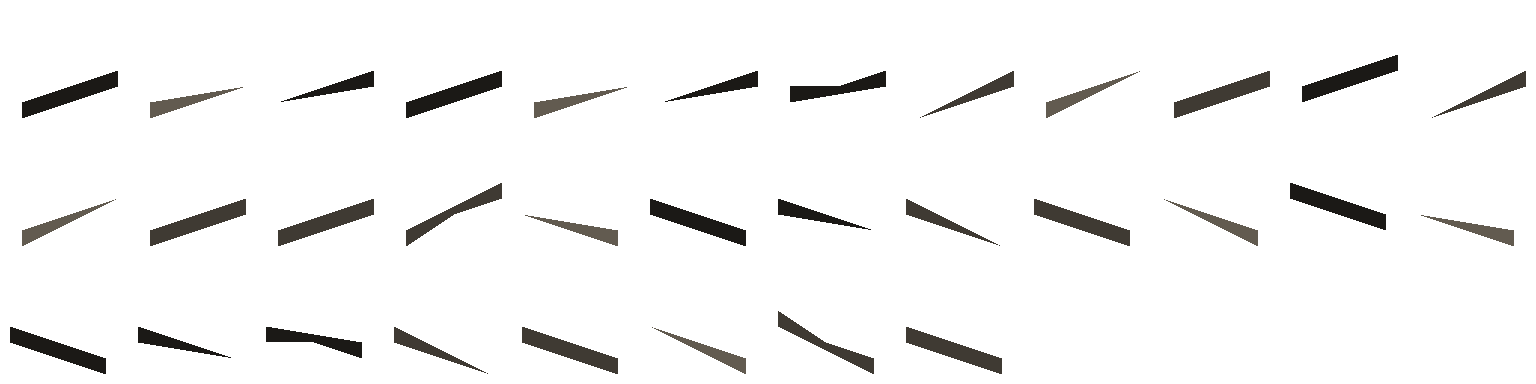
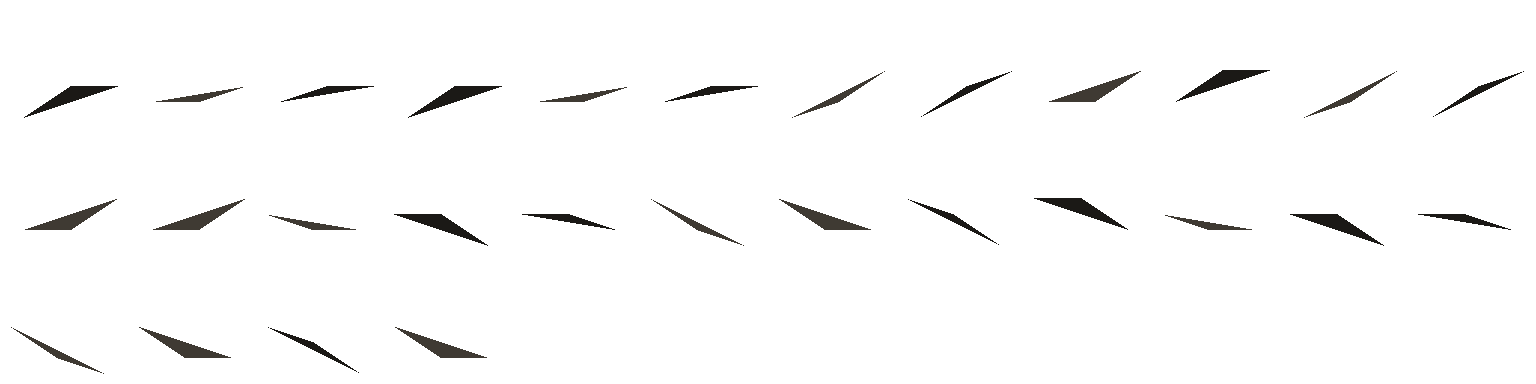
way_wall: taper side cliff to zero height at touched edges
The off-axis side cliff was rendered as a rectangle from chord top
down to the off-axis corner's natural height across the whole chord
strip.  The level-edge constraint (axis_h_way) guarantees natural
ground is at chord height at the touched-edge ends, so the wall must
taper to nothing there — not stand at full height.

Re-shape as a triangle: base along the chord top from
(p_start, h_we1) to (p_end, h_we2), apex at (p_mid, h_off).  All
off-axis corners project to t=0.5 on every axis, so the apex lands
exactly at the long edge's closest point to the corner; module-load
asserts pin that and the (mp1, mp2, perp) invariants the geometry
depends on.

Drops 4 front entries: double-step ramps where h_off equals h_avg
collapse to zero area — previously rendered as bowtie rectangles.

diff --git a/landscape/grounds/way_wall/build_pakset.py b/landscape/grounds/way_wall/build_pakset.py
@@ -25,12 +25,17 @@ along `hex_synth.front_back_split`:
 encoding `texture_lightmap` uses).  Only slopes admitting a way on
 that axis are emitted; others read as `IMG_EMPTY`.
 
-Geometry per cell: one trapezoid quad per off-axis side, anchored at
-the chord strip's long edge.  Top edge follows the chord plane
-(ramped on ramp axes), bottom edge flat at the off-axis corner's
-natural height.  The trapezoid is an approximation — the true natural
-ground height along the long edge varies according to the slope's
-piecewise-linear surface; the corner-height constant suffices for v1.
+Geometry per cell: one triangle per off-axis side, anchored at the
+chord strip's long edge.  The base follows the chord plane (ramped
+on ramp axes) from `(p_start, h_we1)` to `(p_end, h_we2)`; the apex
+sits at the long edge's midpoint at the off-axis corner's natural
+height `h_off`.  At the touched-edge ends the wall has zero height —
+the level-edge constraint (`axis_h_way`) guarantees natural ground
+is at `h_we` there, so the wall must taper to nothing.  Apex height
+= corner height is exact only at the corner itself; the engine's
+surface triangulation between the long edge and the corner is not
+mirrored here, so the apex slightly over- or under-estimates the
+true ground height at the long edge's midpoint.
 
 The engine's `grund_t::display_way_walls` calls `get_way_wall_back_image`
 in `display_boden` before the way draw; `display_way_walls_front` calls
@@ -59,14 +64,66 @@ from tools.threed.render import (
 NASYP_RGB = (110, 102, 90)
 
 
+def _validate_axis_geometry() -> None:
+    """Module-load asserts on the hex-axis geometry the triangle wall
+    depends on.  Cheap (3 axes × a handful of dot products) and runs
+    once at import; cheap insurance against `hex_synth` changing one
+    of these invariants out from under us.
+
+    Invariants:
+
+      * The midpoint of `(mp1, mp2)` is the hex centre `(0, 0)` for
+        every axis.  Equivalent: `mp2 == -mp1`, since the touched
+        edges are antipodal across the centre.  This is what makes
+        the long-edge midpoint reduce to `side_sign * WAY_HALF_WIDTH
+        * perp`.
+      * `axis_perp_vector(axis)` is parallel (up to sign) to the
+        touched-edge direction.  Equivalent: the chord strip's long
+        edge ends sit on the touched-edge lines of the hex.  Without
+        this, `p_start` and `p_end` wouldn't sit on the touched edges
+        and the wall's "zero height at the ends" claim breaks.
+      * Both off-axis corners project to `t == 0.5` on the axis —
+        i.e. the apex `(p_mid, h_off)` is exactly the long edge's
+        closest point to the off-axis corner.
+    """
+    for axis in (hex_synth.NS, hex_synth.NE_SW, hex_synth.NW_SE):
+        mp1, mp2 = hex_synth.axis_edge_midpoints(axis)
+        assert abs(mp1[0] + mp2[0]) < 1e-9 and abs(mp1[1] + mp2[1]) < 1e-9, \
+            f"axis {axis}: mp1+mp2 != 0 (mp1={mp1}, mp2={mp2})"
+
+        perp = hex_synth.axis_perp_vector(axis)
+        (a0_i, a1_i), _ = hex_synth.AXIS_EDGE_CORNERS[axis]
+        ca = hex_synth.HEX_CORNER_XY[a0_i]
+        cb = hex_synth.HEX_CORNER_XY[a1_i]
+        edge_dx, edge_dy = cb[0] - ca[0], cb[1] - ca[1]
+        # perp ∥ edge ⇔ cross == 0
+        cross = perp[0] * edge_dy - perp[1] * edge_dx
+        assert abs(cross) < 1e-9, \
+            f"axis {axis}: perp not parallel to touched edge (cross={cross})"
+
+        d = (mp2[0] - mp1[0], mp2[1] - mp1[1])
+        d_norm_sq = d[0] * d[0] + d[1] * d[1]
+        off_pos, off_neg = hex_synth.AXIS_OFF_AXIS_CORNERS[axis]
+        for off_i in (off_pos, off_neg):
+            c = hex_synth.HEX_CORNER_XY[off_i]
+            t = ((c[0] - mp1[0]) * d[0] + (c[1] - mp1[1]) * d[1]) / d_norm_sq
+            assert abs(t - 0.5) < 1e-9, \
+                f"axis {axis} off-axis corner {off_i}: t={t}, expected 0.5"
+
+
+_validate_axis_geometry()
+
+
 def _side_layer(axis: int, side_sign: int) -> str:
     """Which atlas layer carries the off-axis side cliff at `side_sign`.
 
-    Quad plan-view centre is at `side_sign * WAY_HALF_WIDTH * perp` (the
-    touched-edge midpoints sum to zero by axis symmetry), so we evaluate
-    `front_back_split` at that single point.  `"front"` means the cliff
-    is on the camera-near half — drawn after vehicles so the train
-    occludes correctly.
+    The triangle is edge-on in plan view (all three vertices lie on
+    the chord strip's long edge), so its plan-view centroid is the
+    long edge's midpoint `side_sign * WAY_HALF_WIDTH * perp` — the
+    touched-edge midpoints sum to zero by axis symmetry.  We evaluate
+    `front_back_split` at that single point.  `"front"` means the
+    cliff is on the camera-near half — drawn after vehicles so the
+    train occludes correctly.
     """
     perp = hex_synth.axis_perp_vector(axis)
     cx = side_sign * hex_synth.WAY_HALF_WIDTH * perp[0]
@@ -74,10 +131,20 @@ def _side_layer(axis: int, side_sign: int) -> str:
     return "front" if bool(hex_synth.front_back_split(cx, cy, axis)) else "back"
 
 
-def _add_side_quad(model: Model, mp1, mp2, perp, side_sign: int,
-                   h_top1: int, h_top2: int, h_bot: int,
-                   z_per_step: float, color, layer: str) -> None:
-    """Append one off-axis-side cliff quad (CCW from outside)."""
+def _add_side_triangle(model: Model, mp1, mp2, perp, side_sign: int,
+                       h_top1: int, h_top2: int, h_bot: int,
+                       z_per_step: float, color, layer: str) -> None:
+    """Append one off-axis-side cliff triangle.
+
+    Base along the chord top from `(p_start, h_we1=h_top1)` to
+    `(p_end, h_we2=h_top2)`; apex at `(p_mid, h_off=h_bot)`, where
+    `p_mid` is the long edge's midpoint.  Winding flips with
+    `side_sign` so the outward normal lands on the same side as the
+    original rectangular cliff: toward the way in both cut and nasyp.
+    Submitted via `Model.add_quad` with the apex duplicated as the
+    fourth vertex; the renderer's second sub-triangle is zero-area
+    and skipped by `_draw_triangle`'s denom check.
+    """
     if h_top1 == h_bot and h_top2 == h_bot:
         return
 
@@ -85,19 +152,17 @@ def _add_side_quad(model: Model, mp1, mp2, perp, side_sign: int,
                mp1[1] + side_sign * hex_synth.WAY_HALF_WIDTH * perp[1])
     p_end   = (mp2[0] + side_sign * hex_synth.WAY_HALF_WIDTH * perp[0],
                mp2[1] + side_sign * hex_synth.WAY_HALF_WIDTH * perp[1])
+    p_mid   = ((p_start[0] + p_end[0]) / 2.0,
+               (p_start[1] + p_end[1]) / 2.0)
 
-    z_top1 = h_top1 * z_per_step
-    z_top2 = h_top2 * z_per_step
-    z_bot  = h_bot  * z_per_step
+    v_start = (p_start[0], p_start[1], h_top1 * z_per_step)
+    v_end   = (p_end[0],   p_end[1],   h_top2 * z_per_step)
+    v_apex  = (p_mid[0],   p_mid[1],   h_bot  * z_per_step)
 
-    pts = [
-        (p_start[0], p_start[1], z_top1),
-        (p_end[0],   p_end[1],   z_top2),
-        (p_end[0],   p_end[1],   z_bot),
-        (p_start[0], p_start[1], z_bot),
-    ]
-    if side_sign < 0:
-        pts = list(reversed(pts))
+    if side_sign > 0:
+        pts = [v_start, v_end, v_apex, v_apex]
+    else:
+        pts = [v_end, v_start, v_apex, v_apex]
     model.add_quad(pts, color, layer=layer)
 
 
@@ -137,12 +202,12 @@ def _build_model(axis: int, slope: int, geom: hex_synth.HexGeom) -> Model:
     model = Model()
     _add_top_quad(model, mp1, mp2, perp, h_we1, h_we2, z_per_step,
                   NASYP_RGB, layer="back")
-    _add_side_quad(model, mp1, mp2, perp, +1,
-                   h_we1, h_we2, ch[off_pos], z_per_step, NASYP_RGB,
-                   layer=_side_layer(axis, +1))
-    _add_side_quad(model, mp1, mp2, perp, -1,
-                   h_we1, h_we2, ch[off_neg], z_per_step, NASYP_RGB,
-                   layer=_side_layer(axis, -1))
+    _add_side_triangle(model, mp1, mp2, perp, +1,
+                       h_we1, h_we2, ch[off_pos], z_per_step, NASYP_RGB,
+                       layer=_side_layer(axis, +1))
+    _add_side_triangle(model, mp1, mp2, perp, -1,
+                       h_we1, h_we2, ch[off_neg], z_per_step, NASYP_RGB,
+                       layer=_side_layer(axis, -1))
     return model
 
 
@@ -229,10 +294,11 @@ correctly occludes the train.  All other geometry (chord-strip top,
 back-side cliff) lives in the companion BACK atlas.
 
 Same `(axis, slope)` keying as the back atlas; populated independently
-because some (axis, slope) pairs have no camera-near cliff to draw
-(e.g. flat-chord on a saddle slope where the camera-near corner is at
-chord height).  Engine treats absent slots as IMG_EMPTY and skips the
-post-vehicle draw.
+because some (axis, slope) pairs have no camera-near cliff to draw —
+either the camera-near corner sits at chord height, or on a double-
+step ramp the off-axis corner sits at the chord-midpoint height so
+the wall triangle collapses to zero area.  Engine treats absent
+slots as IMG_EMPTY and skips the post-vehicle draw.
 
 Sparsity: {n_entries} populated entries.
 """
